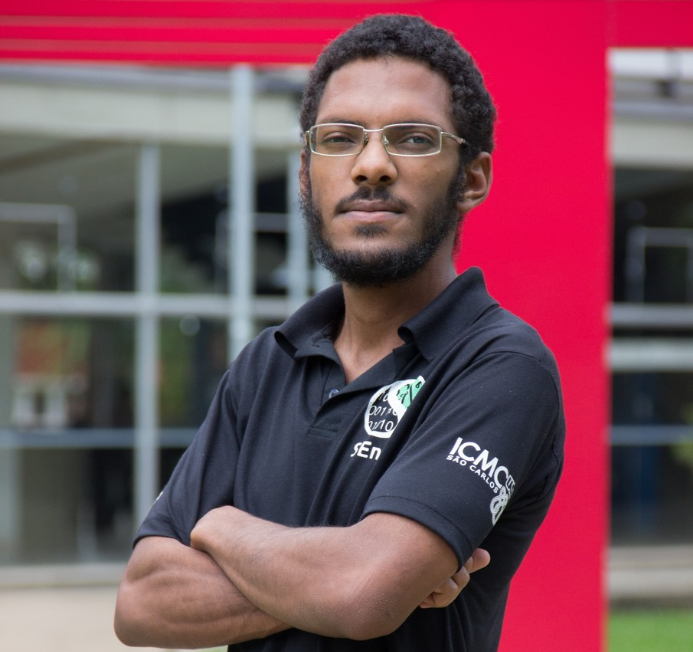
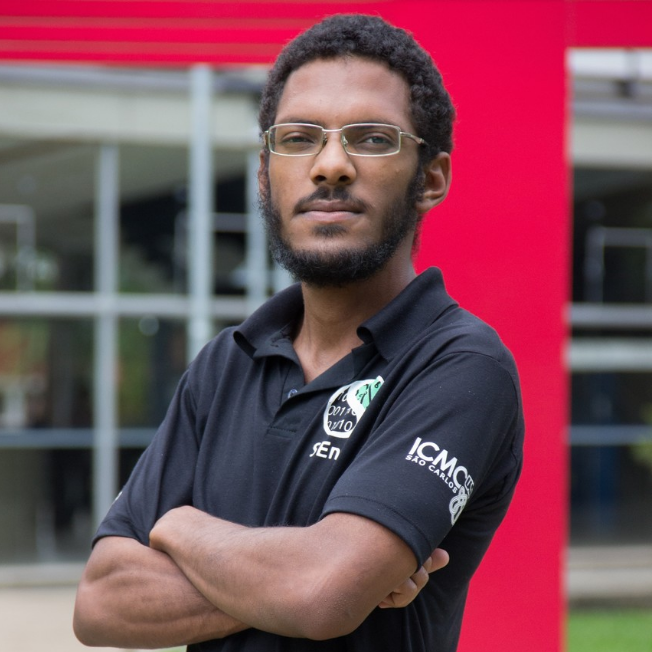
squared members images

diff --git a/membros.html b/membros.html
@@ -114,7 +114,7 @@
 					
 					<div class=member-snippet>
 						
-						<img src="images/members/mateus-marques.jpeg" class="rounded-circle"><br>
+						<img src="images/members/mateus-marques.png" class="rounded-circle"><br>
 
 						<h5> Mateus Marques </h5>
 						<h6> Head de Eventos e Líder de Estratégia </h6>
